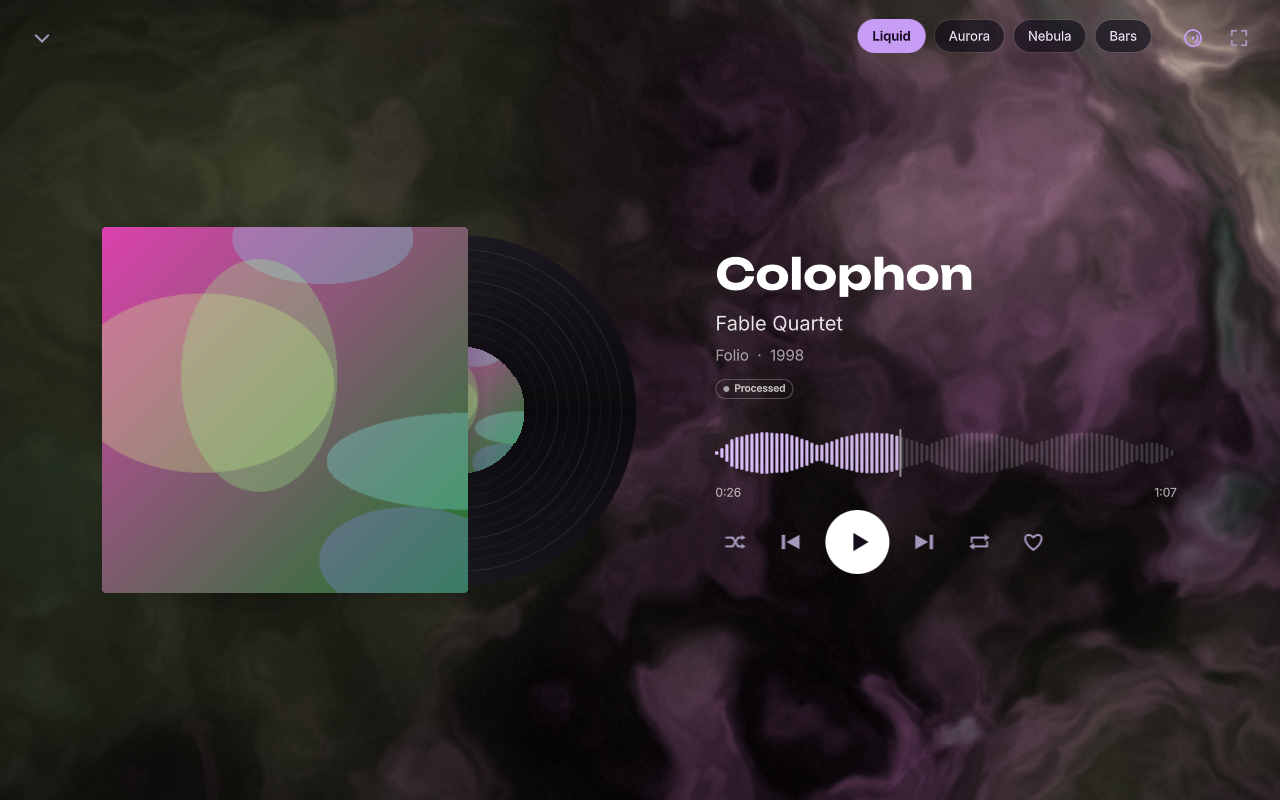
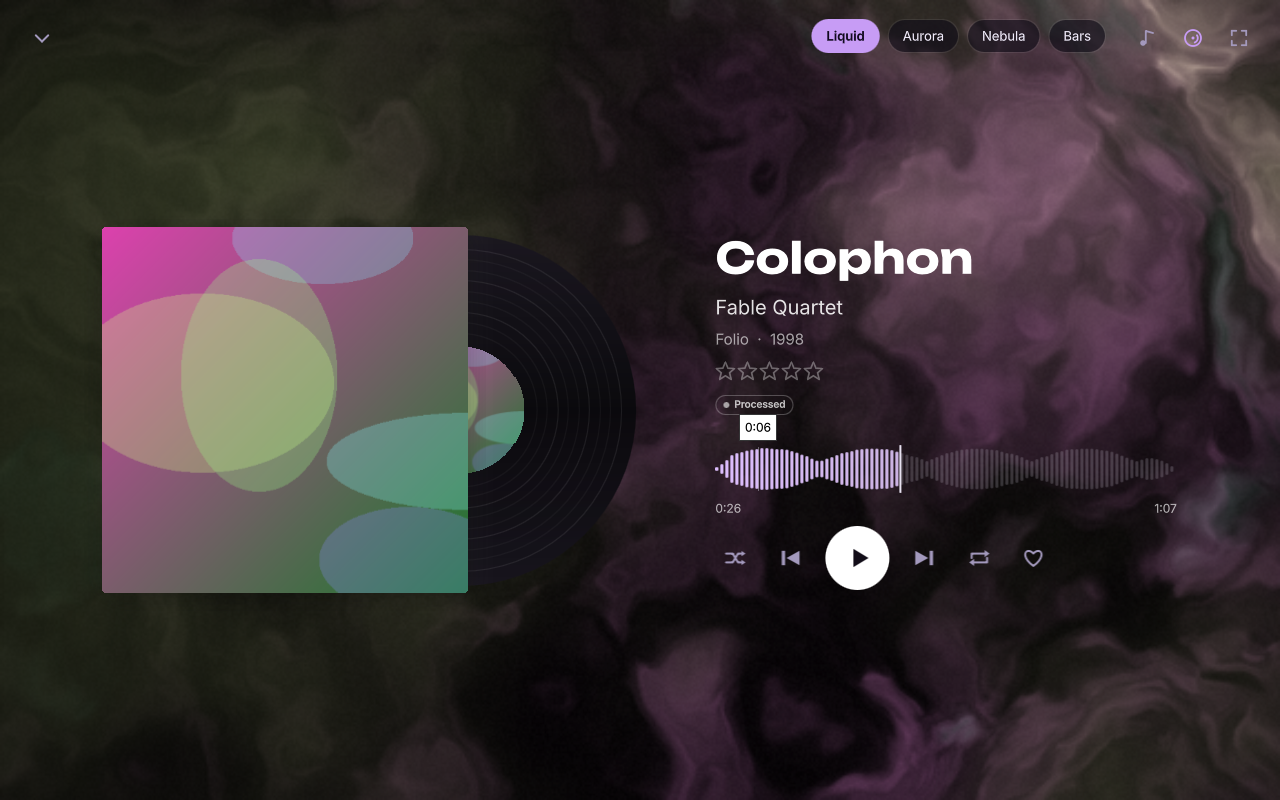
Release 0.8.0: docs, website and screenshots
Version 0.8.0 with changelog and Flathub release notes. New screenshots of every screen (artist page,
recap, folders, multi-select, the welcome's theme picker and the pride themes added; Stats and Folders
show real content), and the README and website describe multi-select, queue undo, skip tracking,
importing from other players, crossfeed, lyrics timing and the searchable settings.

Claude-Session: https://claude.ai/code/session_01QbqG2GF1acpkJMKypb9Z4X

Changed region(s): [[0.5625, 0.2812, 0.9375, 0.75], [0.625, 0.0, 0.9688, 0.125], [0.8438, 0.125, 0.875, 0.1562]]

diff --git a/site/index.html b/site/index.html
@@ -93,17 +93,17 @@
         <article>
           <svg aria-hidden="true" viewBox="0 0 24 24"><path d="M4 12h3l2-6 4 12 2-6h5"/></svg>
           <h3>Gapless and honest</h3>
-          <p>True gapless playback (CUE sheet albums too), ReplayGain measured where tags are missing, headphone correction from AutoEQ, and a signal path readout that tells you when the sound is untouched.</p>
+          <p>True gapless playback (CUE sheet albums too), ReplayGain measured where tags are missing, headphone correction from AutoEQ and crossfeed, and a signal path readout that tells you when the sound is untouched.</p>
         </article>
         <article>
           <svg aria-hidden="true" viewBox="0 0 24 24"><circle cx="12" cy="12" r="2"/><path d="M8.5 8.5a5 5 0 0 0 0 7M15.5 8.5a5 5 0 0 1 0 7M5.6 5.6a9 9 0 0 0 0 12.8M18.4 5.6a9 9 0 0 1 0 12.8"/></svg>
           <h3>Radio and smart playlists</h3>
-          <p>Similar songs from your own library keep playing when the queue runs out, and playlists build themselves from rules.</p>
+          <p>Similar songs from your own library keep playing when the queue runs out, and playlists build themselves from rules. Coming from another player? Your play counts, ratings and playlists come with you.</p>
         </article>
         <article>
           <svg aria-hidden="true" viewBox="0 0 24 24"><path d="M12 21s-7-4.5-7-11a4 4 0 0 1 7-2.6A4 4 0 0 1 19 10c0 6.5-7 11-7 11z"/></svg>
           <h3>Looks after your library</h3>
-          <p>Instant search across fifty thousand tracks, Ctrl+K for anything, and a health check that finds missing covers, tags and duplicates, with a fix next to each.</p>
+          <p>Instant search across fifty thousand tracks, Ctrl+K for anything, Ctrl/Shift+click to act on many songs at once, and a health check that finds missing covers, tags and duplicates, with a fix next to each.</p>
         </article>
         <article>
           <svg aria-hidden="true" viewBox="0 0 24 24"><rect x="5" y="10" width="14" height="10" rx="2"/><path d="M8 10V7a4 4 0 0 1 8 0v3"/></svg>
@@ -132,7 +132,12 @@
         <figure><img src="screenshots/palette.png" width="1280" height="800" loading="lazy" alt="The command palette matching pages, commands and music"><figcaption>Ctrl+K for everything</figcaption></figure>
         <figure><img src="screenshots/queue.png" width="1280" height="800" loading="lazy" alt="The queue panel filled with similar songs by radio mode"><figcaption>Radio mode keeps the queue going</figcaption></figure>
         <figure><img src="screenshots/smart-editor.png" width="1280" height="800" loading="lazy" alt="The smart playlist rule editor with a live preview"><figcaption>Smart playlist rules</figcaption></figure>
-        <figure><img src="screenshots/settings.png" width="1280" height="800" loading="lazy" alt="Settings with themes, playback and output device options"><figcaption>Themes, playback and output device</figcaption></figure>
+        <figure><img src="screenshots/artist.png" width="1280" height="800" loading="lazy" alt="An artist page with listening facts and most played songs"><figcaption>Artist pages</figcaption></figure>
+        <figure><img src="screenshots/recap.png" width="1280" height="800" loading="lazy" alt="A month of listening summed up: minutes, top artists and songs"><figcaption>Your month, summed up</figcaption></figure>
+        <figure><img src="screenshots/selection.png" width="1280" height="800" loading="lazy" alt="Several songs selected with the selection bar's actions"><figcaption>Act on many songs at once</figcaption></figure>
+        <figure><img src="screenshots/folders.png" width="1280" height="800" loading="lazy" alt="The folder view with artist folders"><figcaption>Your own folders</figcaption></figure>
+        <figure><img src="screenshots/theme-trans-pride.png" width="1280" height="800" loading="lazy" alt="Home in the Trans Pride theme"><figcaption>Pride themes</figcaption></figure>
+        <figure><img src="screenshots/settings.png" width="1280" height="800" loading="lazy" alt="Settings in searchable sections"><figcaption>Searchable settings</figcaption></figure>
       </div>
     </section>
 

diff --git a/scripts/screenshots.py b/scripts/screenshots.py
@@ -177,6 +177,8 @@ def main():
                     '{"match": "any", "rules": [{"field": "genre", "op": "contains", "value": "dream"},'
                     ' {"field": "genre", "op": "contains", "value": "ambient"}], "sort": "year_desc", "limit": 0}'))
                 user_lib.refresh()
+                user_lib.refreshStats()
+                shell.setUiValue("foldersPath", str(work / "Music"))  # the folder view opens inside the music
 
             def play():
                 player.setVisualizerEnabled(True)
@@ -240,9 +242,44 @@ def main():
             def wait():
                 return None
 
+            def open_artist():
+                QMetaObject.invokeMethod(win, "openArtist", Q_ARG("QVariant", "Glass Orchard"))
+
+            def select_songs():
+                # Ctrl+click one song and Shift+click a few rows down, as a user would
+                from PySide6.QtCore import QPoint, Qt
+                from PySide6.QtTest import QTest
+
+                def rows(item, acc):
+                    if item.isVisible():
+                        if item.objectName() == "trackRow" and item.width() > 0:
+                            acc.append(item)
+                        for c in item.childItems():
+                            rows(c, acc)
+                    return acc
+
+                found = rows(win.contentItem(), [])
+                for row, mod in ((found[2], Qt.KeyboardModifier.ControlModifier),
+                                 (found[5], Qt.KeyboardModifier.ShiftModifier)):
+                    c = row.mapToScene(row.boundingRect().center())
+                    QTest.mouseClick(win, Qt.MouseButton.LeftButton, mod, QPoint(int(c.x()), int(c.y())))
+
+            def welcome(step):
+                def show():
+                    w = child("welcome")
+                    w.setProperty("open", step >= 0)
+                    w.setProperty("step", max(step, 0))
+                return show
+
             todo += [seed, play, pause]
-            for page in ("home", "songs", "history", "settings"):
-                todo += [go(page), shot(page)]
+            for page in ("home", "songs", "history", "settings", "folders", "recap", "stats"):
+                todo += [go(page), wait, shot(page)]
+            todo += [go("artists"), open_artist, wait, shot("artist")]
+            todo += [go("songs"), wait, select_songs, wait, shot("selection"), lambda: child("selectionClear").clicked.emit()]
+            todo += [welcome(1), wait, shot("welcome-themes"), welcome(-1), wait]
+            todo += [lambda: managers[0].selectTheme("Trans Pride"), go("home"), wait, wait, shot("theme-trans-pride"),
+                     lambda: managers[0].selectTheme("Bi Pride"), wait, wait, shot("theme-bi-pride"),
+                     lambda: managers[0].selectTheme(themes[0]), wait]
             for view in ("grid", "colour", "timeline"):
                 todo += [albums_view(view), go("home"), go("albums"), wait, shot("albums" if view == "grid" else "albums-" + view)]
             todo += [albums_view("grid"), open_album, wait, shot("album")]

diff --git a/hallucinate/__init__.py b/hallucinate/__init__.py
@@ -1,1 +1,1 @@
-__version__ = "0.7.0"
+__version__ = "0.8.0"

diff --git a/README.md b/README.md
@@ -33,12 +33,12 @@
 - **A look of its own.** Frosted glass over a backdrop that slowly drifts in the colours of the current cover, a floating player, and a waveform seek bar drawn from each song's own loudness.
 - **Now Playing that fills the screen.** Press F: the cover, or the record sliding out of its sleeve, over GPU visualizers (Liquid, Aurora, Nebula) that move with the music in the cover's colours.
 - **Home is about your library.** A random album to play, your listening heatmap and streak, albums to rediscover, what you played on this day in past years, and library facts.
-- **Browse like a record shelf.** Album pages with liner notes, a colour wall that sorts every cover round the colour wheel, and a timeline by decade and year.
-- **Every listen remembered.** A searchable history of everything you played, by day, with a year-long heatmap; import your Last.fm or ListenBrainz history too.
-- **Plays everything well.** FLAC, MP3, AAC/ALAC, Ogg, Opus, WAV, WavPack, AIFF and more, with true gapless playback, crossfade, ReplayGain, a 10-band equalizer and a signal path readout that tells you when the sound is untouched.
-- **Radio mode and smart playlists.** Similar songs from your library keep playing when the queue runs out; playlists update themselves from rules.
-- **Fast to drive.** Instant search across 50,000 tracks, and Ctrl+K for any page, command, album or song.
-- **Looks after your library.** A health check finds missing covers, tags and folders, split albums and duplicates, with a fix next to each.
+- **Browse like a record shelf.** Album and artist pages, a colour wall that sorts every cover round the colour wheel, a timeline by decade and year, and your own folders.
+- **Every listen remembered.** A searchable history of everything you played, recaps of every week, month and year, and your Last.fm, ListenBrainz or old player's history brought over.
+- **Plays everything well.** FLAC, MP3, AAC/ALAC, Ogg, Opus, WAV, WavPack, AIFF and more, CUE sheet albums too, with true gapless playback, ReplayGain (measured where tags are missing), a 10-band equalizer, headphone correction and crossfeed, and a signal path readout that tells you when the sound is untouched.
+- **Radio mode and smart playlists.** Similar songs from your library keep playing when the queue runs out (songs you keep skipping come up less); playlists update themselves from rules, ratings included.
+- **Fast to drive.** Instant search across 50,000 tracks, Ctrl+K for anything, Ctrl/Shift+click to act on many songs at once, and Ctrl+Z when the queue goes wrong.
+- **Looks after your library.** A health check finds missing covers (and fetches them all at once), tags and folders, split albums and duplicates, with a fix next to each.
 - **No account, no cloud.** Your library, playlists and history stay on your computer. Scrobbling and Discord are opt-in, cover art is fetched only when you ask, and online lyrics lookup can be turned off.
 
 ## Screenshots
@@ -55,6 +55,12 @@
 | ![Library health](docs/screenshots/health.png) | ![Command palette](docs/screenshots/palette.png) |
 | Queue with radio mode | Smart playlist rules |
 | ![Queue with radio mode](docs/screenshots/queue.png) | ![Smart playlist editor](docs/screenshots/smart-editor.png) |
+| Artist page | Recap |
+| ![Artist page](docs/screenshots/artist.png) | ![A month of listening summed up](docs/screenshots/recap.png) |
+| Several songs selected | Folders |
+| ![Songs selected with the selection bar](docs/screenshots/selection.png) | ![Folder view](docs/screenshots/folders.png) |
+| Settings | Pride themes |
+| ![Settings in searchable sections](docs/screenshots/settings.png) | ![The Trans Pride theme](docs/screenshots/theme-trans-pride.png) |
 
 ![Themes](docs/screenshots/themes.gif)
 
@@ -72,6 +78,9 @@ _Screenshots are rendered from a synthetic library by `scripts/screenshots.py` (
 | Q · L | Queue · lyrics |
 | Ctrl+M | Mini player |
 | Ctrl+1…5 · Ctrl+0 | Rate the playing song · clear its rating |
+| Ctrl+click · Shift+click | Select songs · select a range (then act on them from the bar that appears) |
+| Ctrl+Z | Undo the last queue change |
+| Esc | Clear the selection |
 | Alt+← | Back |
 
 ## All features
@@ -88,8 +97,13 @@ _Screenshots are rendered from a synthetic library by `scripts/screenshots.py` (
 - Recap: a week, month or year of listening summed up (time, top artists, albums, songs and genres, new artists, the busiest day, longest streak, when you listen), with a highlights card to save as an image.
 - Folder view: browse your folders on disk with breadcrumbs, and play, shuffle or queue a folder with everything below it.
 - Star ratings (1–5, alongside Like) from the track menu, the player or Ctrl+1…5; ratings from other players' tags are read, and smart playlists can use them.
-- CUE sheets: a single-file album with a .cue appears as its separate songs and plays gaplessly.
+- CUE sheets: a single-file album with a .cue (or a sheet embedded in the file) appears as its separate songs, each with its own waveform, and plays gaplessly.
 - First-run welcome: choose your music folders, a theme and scrobbling on a fresh install.
+- Multi-select: Ctrl/Shift+click songs in any list, then play them, play them next, queue them, add them to a playlist, like, rate or edit their tags together.
+- Queue undo (Ctrl+Z, 20 steps) for clearing, removing, moving and replacing the queue.
+- Skip tracking: moving on from a song early counts as a skip; smart playlists can use skip counts and radio plays often-skipped songs less.
+- Import from other players: play counts, skips, ratings and playlists from Strawberry, Clementine, Rhythmbox, MusicBee and iTunes, and foobar2000 play counts written to tags.
+- Settings in searchable sections; Copy debug info for bug reports (no personal paths); an optional, off-by-default update check.
 - Command palette (Ctrl+K) with fuzzy matching over pages and commands plus albums, artists and songs.
 - Global search grouped into Artists / Albums / Songs; Home, Albums, Artists, Songs browse views; album and artist pages; editable queue; shuffle/repeat; seek; volume. Queue, current position, shuffle, repeat, and volume are restored after restart; missing queue files are discarded.
 - Drag audio files or folders onto the window to play them (onto the queue panel to append); files outside the library play straight from their tags. Save the queue as a playlist from the queue panel.
@@ -107,8 +121,8 @@ _Screenshots are rendered from a synthetic library by `scripts/screenshots.py` (
 - The visualizer's FFT analysis runs on a worker thread and can be turned off ("React to the music").
 - Optional compact format/average-bitrate badges in track rows and the now-playing bar (Settings → Appearance); the display is off by default, shows approximate average kb/s, and leaves unavailable bitrates out rather than displaying zero.
 - Tag editor (single track or whole album; MP3, FLAC, Ogg/Opus, M4A, WMA, APE) and cover art: set from an image file, fetch from MusicBrainz / Cover Art Archive, optionally embed in files.
-- Headphone correction from AutoEQ's profiles (search by model, or import a ParametricEQ / GraphicEQ file), applied under the equalizer bands.
-- Lyrics panel with synced highlighting, and karaoke-style lyrics in Now Playing: embedded tags, sidecar `.lrc`, or LRCLIB (cached locally; can be disabled).
+- Headphone correction from AutoEQ's profiles (search by model, or import a ParametricEQ / GraphicEQ file), applied under the equalizer bands, and headphone crossfeed (light, medium, strong).
+- Lyrics panel with synced highlighting, and karaoke-style lyrics in Now Playing: embedded tags, sidecar `.lrc`, or LRCLIB (cached locally; can be disabled). Nudge synced lyrics that run early or late and save the timing as an `.lrc` next to the song.
 - Import M3U, M3U8 and PLS playlists (matched by path, then artist and title, then file name) and export any playlist, Liked Songs or the queue as M3U8.
 - Mini player (always-on-top, `Ctrl+M`) and a system tray icon with play/pause/next/previous, optional close-to-tray.
 - Keyboard focus rings and screen-reader names on buttons, rows and cards; renders crisply on HiDPI (tested at 2x).

diff --git a/CHANGELOG.md b/CHANGELOG.md
@@ -5,6 +5,26 @@ All notable changes to this project are documented here. Format based on
 
 ## [Unreleased]
 
+## [0.8.0] - 2026-10-12
+
+### Added
+- Select several songs at once: Ctrl+click toggles a song and Shift+click selects a range in any song list (songs, albums, artists, playlists, smart playlists, folders, search, stats, recap). A bar above the player then plays them, plays them next, queues them, adds them to a playlist (or a new one), likes or unlikes them, rates them or edits their tags together; fields that differ between them are marked mixed and left alone. Esc or leaving the page clears the selection.
+- Undo queue changes (Ctrl+Z, or Undo in the queue panel, 20 steps): clearing the queue, removing or moving a song, or replacing the queue by playing something else. The playing song carries on when it can.
+- Skip tracking: moving on by hand from a playing song before it counts as a play records a skip. Smart playlists get a Skip count field, and radio plays songs you keep skipping less (unless they're liked).
+- Import from other players (Settings → Library): play counts, skips, last played, ratings and playlists from Strawberry, Clementine, Rhythmbox, MusicBee and iTunes/Apple Music, and foobar2000 play counts written to tags. Libraries in their usual places are found for you; importing again never counts twice, and ratings set here are kept.
+- Find every missing cover at once from Library health (MusicBrainz and the Cover Art Archive, paced to MusicBrainz's one request a second, with progress and Stop).
+- Headphone crossfeed (Settings → Sound): Light, Medium or Strong, so hard-panned stereo is easier on headphones. Shown in the signal path.
+- Lyrics timing: nudge synced lyrics 0.25 s earlier or later in the lyrics panel or Now Playing, and save the corrected timing as an .lrc file next to the song. LRC [offset:] tags are honoured.
+- CUE sheets stored inside the audio file (a CUESHEET tag in FLAC, Ogg, WavPack or Monkey's Audio, or FLAC's native cuesheet block) split it into songs, and CUE songs now get their own waveform seek bar.
+- Copy debug info (Settings → About): versions, system, display and scaling, audio output, playback settings and the recent log for bug reports, with the home folder redacted and no file paths or account names. A Report a bug link sits next to it.
+- An optional update check, off by default: when turned on it asks GitHub for the latest release at most once a day and shows "Update to …" in the sidebar when a newer version is out. It's off inside the Flatpak, where Flathub delivers updates.
+- `scripts/flathub_manifest.py` writes the Flathub submission manifest for a release tag.
+
+### Changed
+- Settings are grouped into Appearance, Playback, Sound, Library, Scrobbling & sharing, Desktop and About, with chips to jump to each and a search box that keeps only the sections matching what you type.
+- Small and tiled windows: the player bar sizes its controls to fit (no more overlap with the seek bar in narrow windows; the mini player button hides below 1100 px, Ctrl+M still works), and the selection bar sits over the page with short labels when space is tight.
+- Every page, the queue, Now Playing and the welcome are now tested in all 17 themes for warnings and unthemed white areas.
+
 ## [0.7.0] - 2026-10-12
 
 ### Added
